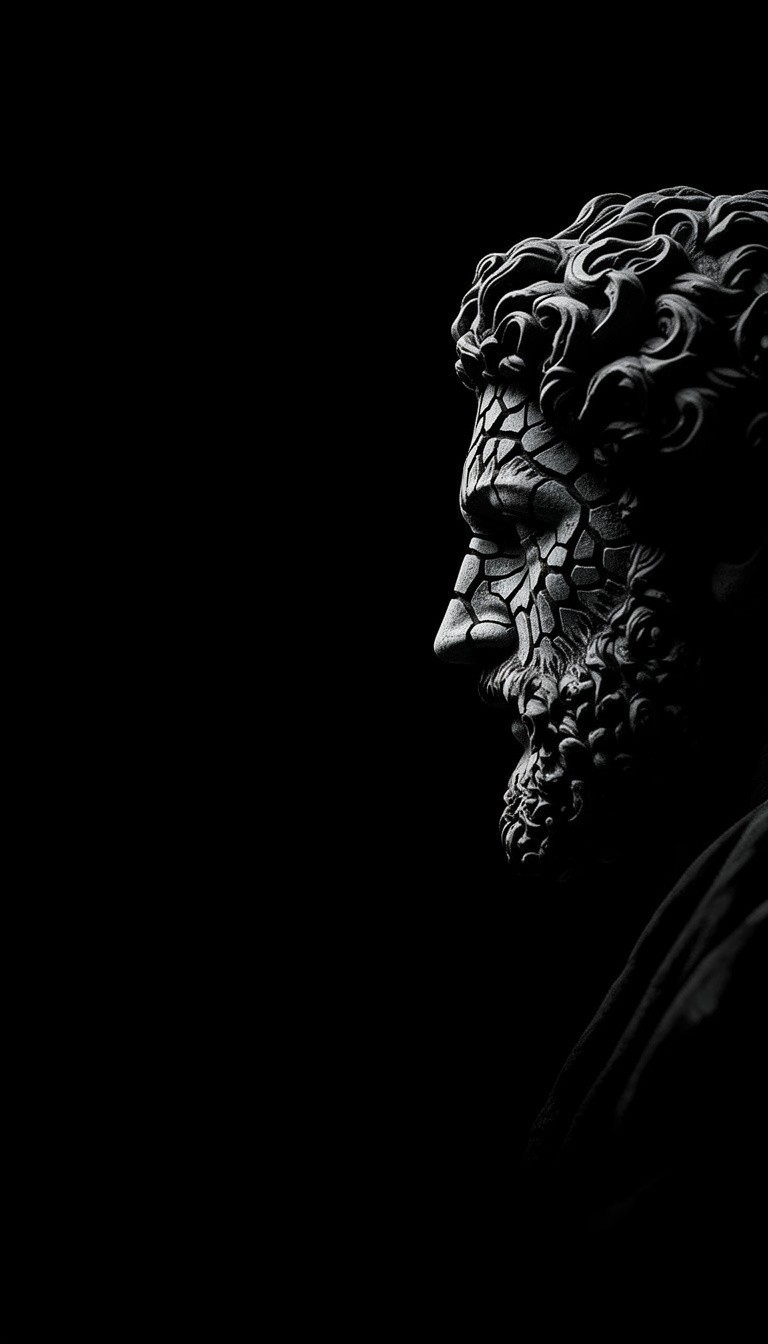
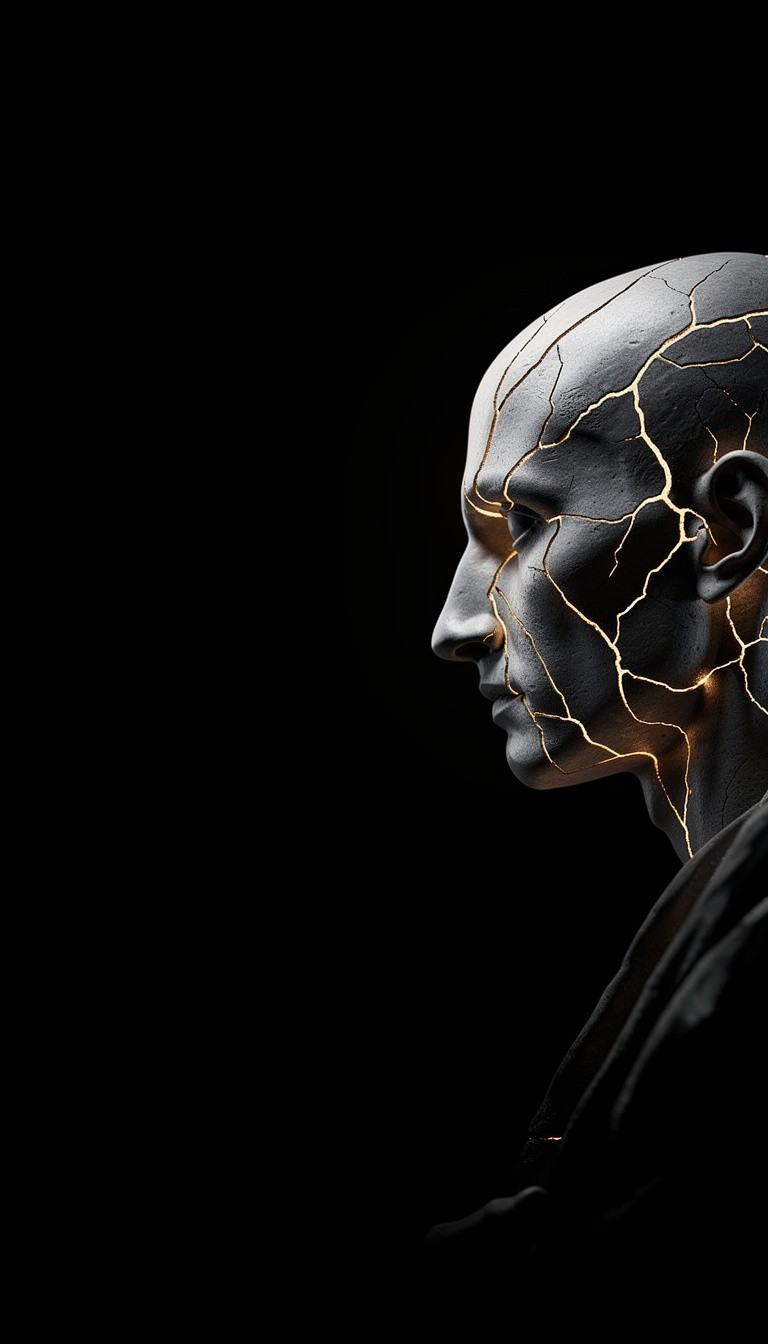
Fix psychology background: use single confirmed-good image (psychology2, distinct from any philosopher, no empty top-right corner) for all psychology facts instead of alternating with the old problematic one

diff --git a/composite_card.py b/composite_card.py
@@ -34,12 +34,8 @@ def get_background(attribution, row_id):
     key = attribution.strip().lower()
     if key in IMAGE_MAP:
         return IMAGE_MAP[key]
-    # Psychology facts: alternate between the two abstract images
-    try:
-        n = int(row_id)
-    except ValueError:
-        n = 0
-    return "psychology1" if n % 2 == 0 else "psychology2"
+    # Psychology facts: single fixed background (psychology2, the corrected one)
+    return "psychology2"
 
 if __name__ == "__main__":
     from PIL import Image, ImageDraw, ImageFont
